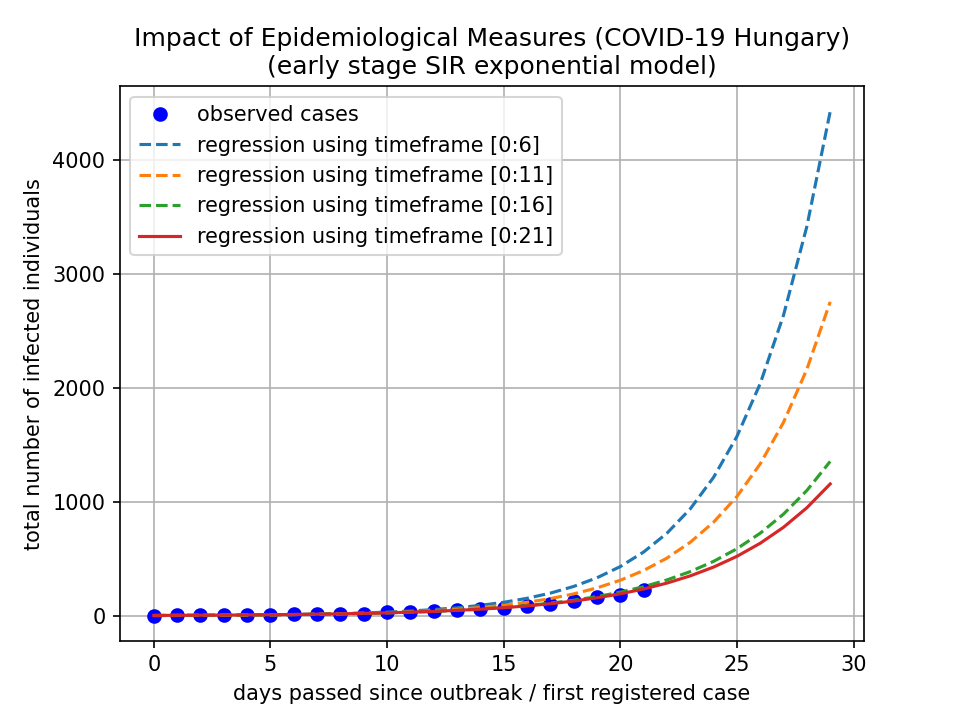
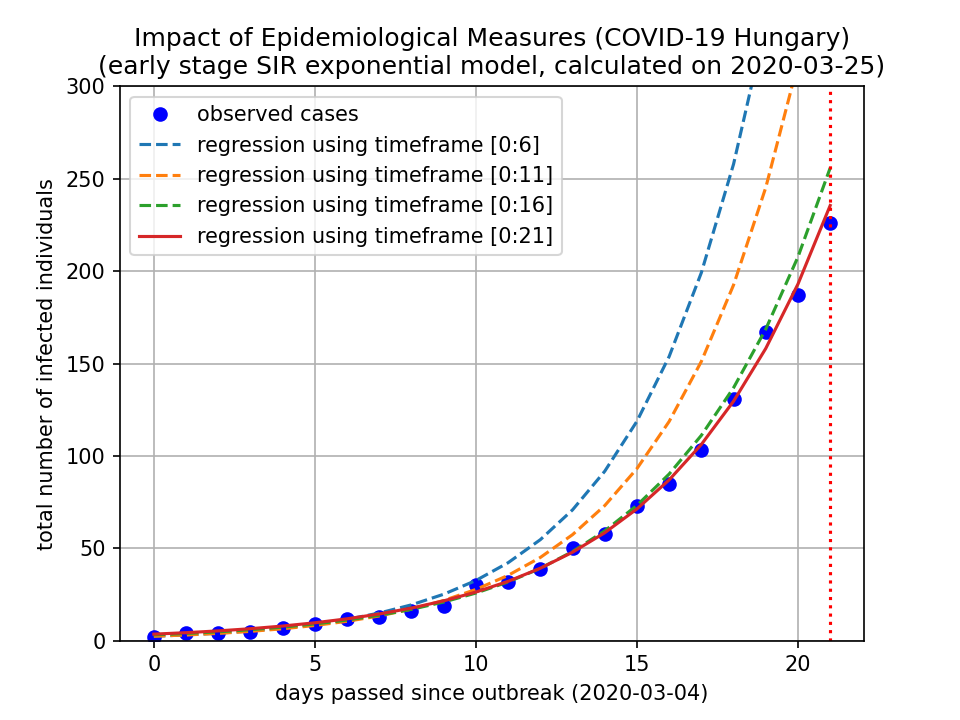
prettify plot

diff --git a/regression.py b/regression.py
@@ -38,10 +38,11 @@ def makeplot(df, dmax, trange, c, ylim=False):
         ax.plot(t, i(t, popt[0], popt[1]), symbol, label='regression using timeframe [0:{}]'.format(n))
         ax.legend()
 
-    ax.set(title = 'Impact of Epidemiological Measures (COVID-19 {})\n(early stage SIR exponential model)'.format(c))
-    ax.set(xlabel = 'days passed since outbreak / first registered case')
+    ax.set(title = 'Impact of Epidemiological Measures (COVID-19 {})\n(early stage SIR exponential model, calculated on {:%Y-%m-%d})'.format(c, df['date'][df.index[-1]]))
+    ax.set(xlabel = 'days passed since outbreak ({:%Y-%m-%d})'.format(df['date'][df.index[0]]))
     ax.set(ylabel = 'total number of infected individuals')
-
+    ax.axvline(x=trange[-1], color='r', ls=':')
+    
     if ylim:
         plt.ylim(ylim)
     plt.grid()
@@ -56,9 +57,12 @@ if __name__ == "__main__":
     # https://koronavirus.gov.hu/
     
     df = pd.read_csv('data-hun.csv', sep=';', names=['date', 'infectious', 'died', 'recovered', 'total', 'remark'], parse_dates=['date'])
-    p = makeplot(df, dmax=30, trange=range(6, 22, 5), c="Hungary")
+    p = makeplot(df, dmax=22, trange=range(6, 22, 5), c="Hungary", ylim=(0,300))
     p.savefig('plot-hun.png', dpi=150)
     p.show()
+    p1 = makeplot(df, dmax=30, trange=range(6, 22, 5), c="Hungary")
+    p1.savefig('plot-hun-large.png', dpi=150)
+    p1.show()
 
     # https://en.wikipedia.org/wiki/2020_coronavirus_pandemic_in_Spain
     df2 = pd.read_csv('data-spain.csv', sep=';', names=['date', 'time', 'AN','AR', 'AS', 'IB', 'CN', 'CB', 'CM', 'CL', 'CT', 'CE', 'VC', 'EX', 'GA', 'MD', 'ML', 'MU', 'NA', 'PV', 'RI', 'i_new', 'total', 'd_new', 'died', 'ICU', 'recovered', 'tested', 'refs'], parse_dates=['date'], converters={"total": atoi})
